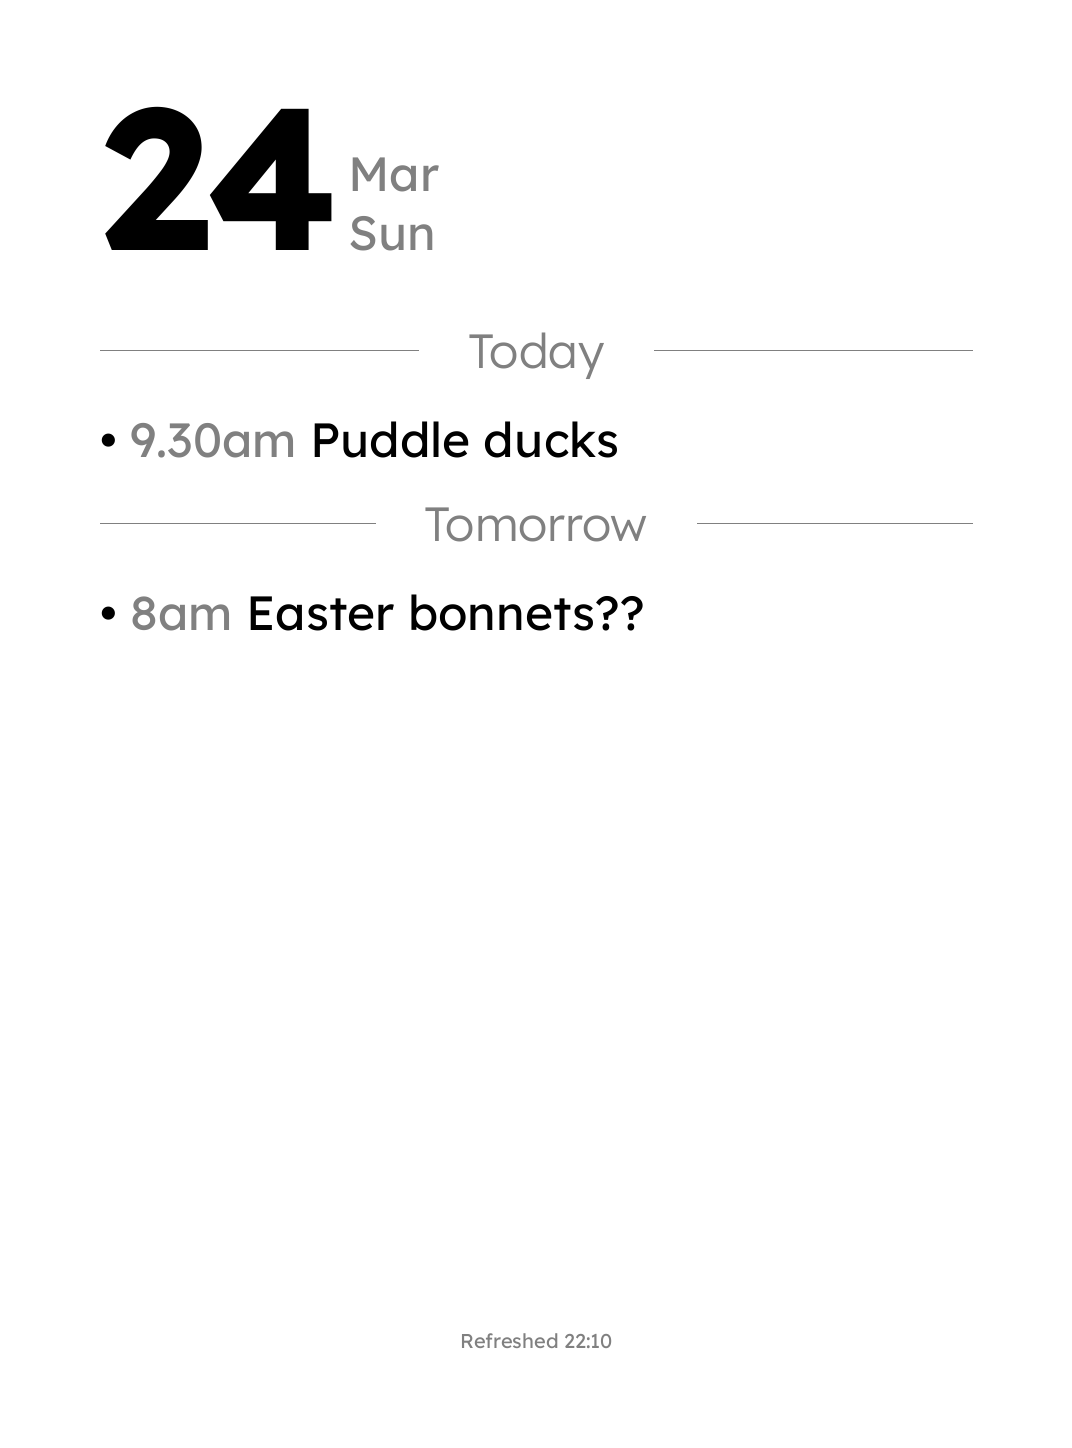
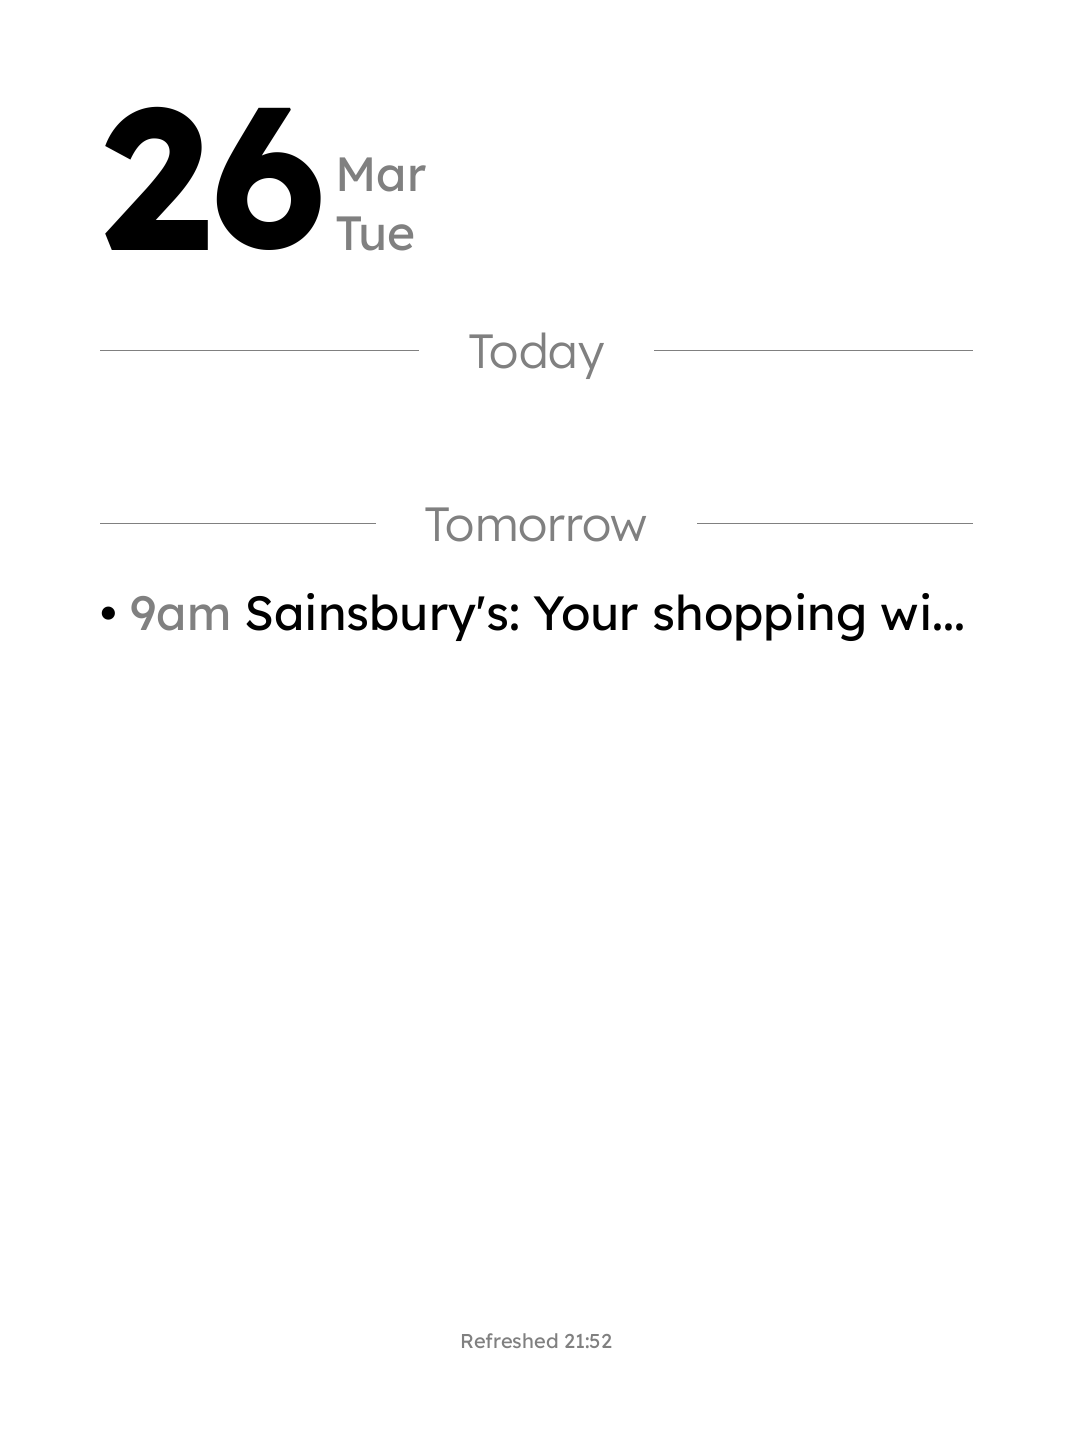
added truncation to text rendering

Changed region(s): [[0.1231, 0.404, 0.8927, 0.4351], [0.1847, 0.0622, 0.4002, 0.1865], [0.0924, 0.2797, 0.5849, 0.3419]]

diff --git a/server/src/server/render/render_helper.py b/server/src/server/render/render_helper.py
@@ -7,12 +7,14 @@ from typing import TYPE_CHECKING
 from PIL import Image, ImageDraw
 
 if TYPE_CHECKING:
-    from render.font_helper import FontFactory
+    from render.font_helper import FontFactory, Font
     from datetime import datetime
+    from PIL import ImageFont
 
 """
 TODO:
 - decide what to do with weather. next N hours? just icon/temp?
+- refactor Renderer to pass ImageDraw.Draw into the FontFactory so that Fonts can draw themselves and avoid repeated code
 """
 
 logger = logging.getLogger(__name__)
@@ -39,10 +41,33 @@ class Renderer:
 
             self.bullet_format = "•"
 
-    def render_event_text_only(self, position: tuple[int], event_text : str, font):
-        self.draw.text(position, f"{self.bullet_format} {event_text}", font=font, fill="black")
+    @staticmethod
+    def truncate_with_ellipsis(text: str, max_width: int, font: ImageFont) -> str:
+        
+        def width(x):
+            return font.getbbox(x)[2]
+        
+        if width(text) <= max_width:
+            return text
 
-    def render_event_with_time(self, position: tuple[int], event_time : str, event_text : str, font):
+        # Binary search to find the optimal truncation point
+        left = 0
+        right = len(text) - 1
+        while left <= right:
+            mid = (left + right) // 2
+            if width(text[:mid] + '...') <= max_width:
+                left = mid + 1
+            else:
+                right = mid - 1
+
+        return text[:left - 1] + '...'
+
+    def render_event_text_only(self, position: tuple[int], event_text : str, font : ImageFont):
+        text = f"{self.bullet_format} {event_text}"
+        truncated_text = self.truncate_with_ellipsis(text=text, max_width=self.image_width-2*self.margin_x, font=font)    
+        self.draw.text(position, truncated_text, font=font, fill="black")
+
+    def render_event_with_time(self, position: tuple[int], event_time : str, event_text : str, font: ImageFont):
         x,y = position
 
         bullet = self.bullet_format + " "
@@ -56,9 +81,12 @@ class Renderer:
 
         self.draw.text((x, y), bullet, font=font, fill="black")
         self.draw.text((x_time, y), event_time, font=font, fill="gray")
-        self.draw.text((x_text, y), event_text, font=font, fill="black")
+        
+        max_width = self.image_width - (self.margin_x + x_text)
+        event_text_truncated = self.truncate_with_ellipsis(text=event_text, max_width=max_width, font=font)
+        self.draw.text((x_text, y), event_text_truncated, font=font, fill="black")
 
-    def render_events(self, section_title: str, events: list[dict], y):
+    def render_events(self, section_title: str, events: list[dict], y: int):
         """Renders a section with a title and bullet points starting at the given y-coordinate."""
 
 
@@ -69,7 +97,7 @@ class Renderer:
         # Title text
         title_width = event_title.width(section_title)
         title_pos_x = self.image_width//2
-        self.draw.text((title_pos_x, y), section_title, font=event_title.font(), fill="gray", anchor="mm")
+        self.draw.text((title_pos_x, y), section_title, font=event_title.image_font(), fill="gray", anchor="mm")
 
         # Lines either side of title
         left_line_x_start = self.margin_x
@@ -87,11 +115,11 @@ class Renderer:
         y += event_title.height()  # Add spacing after the title
 
         # Bullets
-        f = event_reg.font()
+        f = event_reg.image_font()
         bullet_height = event_reg.height()
 
         if len(events) == 0:
-            self.draw.text((self.image_width/2, y), "", font=event_nothing.font(), fill="gray", anchor="ma")
+            self.draw.text((self.image_width/2, y), "", font=event_nothing.image_font(), fill="gray", anchor="ma")
             y += bullet_height + 5
             return y
 
@@ -119,15 +147,15 @@ class Renderer:
         date_num = self.ff.get("bold", 200)
         date_rest = self.ff.get("regular")
 
-        self.draw.text((self.margin_x, self.top_row_y), day, font=date_num.font(), fill="black", anchor="ls")
+        self.draw.text((self.margin_x, self.top_row_y), day, font=date_num.image_font(), fill="black", anchor="ls")
         day_width = date_num.width(day)
 
         self.draw.text((self.margin_x + day_width + 10, self.top_row_y),
                        day_of_week,
-                       font=date_rest.font(), fill="gray", anchor="ls")
+                       font=date_rest.image_font(), fill="gray", anchor="ls")
         self.draw.text((self.margin_x + day_width + 10, self.top_row_y - date_rest.height()),
                        month,
-                       font=date_rest.font(), fill="gray", anchor="ls")
+                       font=date_rest.image_font(), fill="gray", anchor="ls")
 
     def render_weather(self, text, icon):
 
@@ -136,13 +164,13 @@ class Renderer:
 
         self.draw.text((self.image_width - self.margin_x - weather_text.width(text), self.top_row_y),
                        text,
-                       font=weather_text.font(), fill="gray", anchor="ls")
+                       font=weather_text.image_font(), fill="gray", anchor="ls")
         self.draw.text((self.image_width - self.margin_x - weather_icon.width(icon), self.top_row_y - weather_text.height()),
                        icon,
-                       font=weather_icon.font(), fill="black", anchor="ls")
+                       font=weather_icon.image_font(), fill="black", anchor="ls")
 
     def render_last_updated(self, time: str):
-        f = self.ff.get("regular", 20).font()
+        f = self.ff.get("regular", 20).image_font()
         text = f"Refreshed {time}"
         self.draw.text((self.image_width//2, self.image_height - 0.5*self.margin_y), text, font=f, fill="gray", anchor="ms")
 

diff --git a/server/src/server/render/font_helper.py b/server/src/server/render/font_helper.py
@@ -54,17 +54,17 @@ class Font:
         self._font = f
         self._height = f.getbbox("lq")[3] # max height for a line of this size, not its actual height
 
-    def width(self, text):
+    def width(self, text: str) -> int:
         return self._font.getbbox(text)[2]
 
-    def height(self, text=None):
+    def height(self, text : str = None) -> int:
         if text is None:
             return self._height
 
         return self._font.getbbox(text)[3]
 
-    def size(self, text):
+    def size(self, text: str) -> int:
         return self.width(text), self.height(text)
 
-    def font(self):
+    def image_font(self) -> ImageFont:
         return self._font
